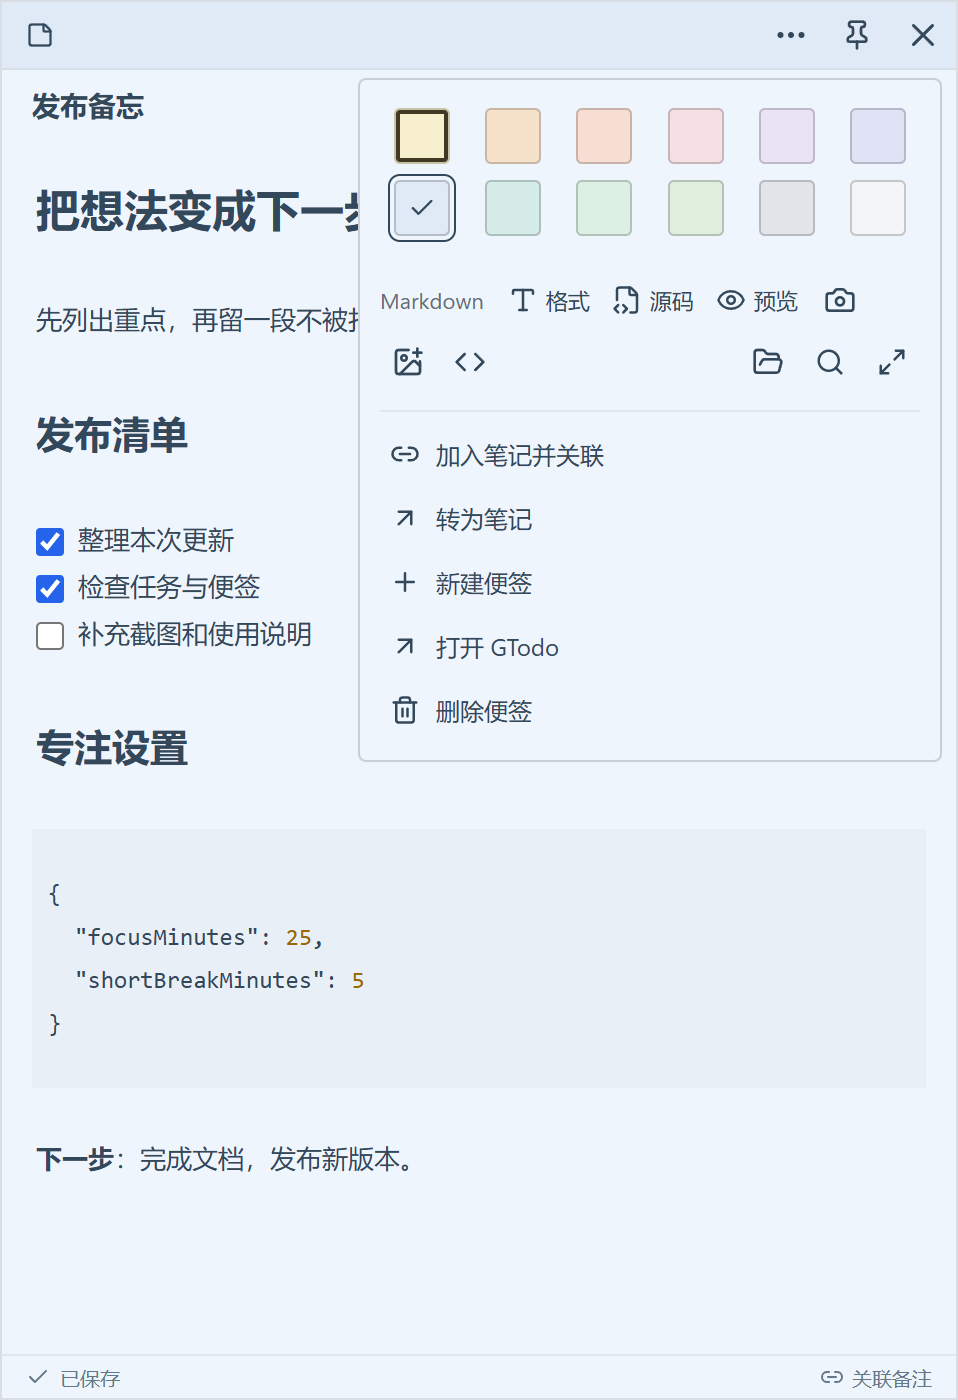
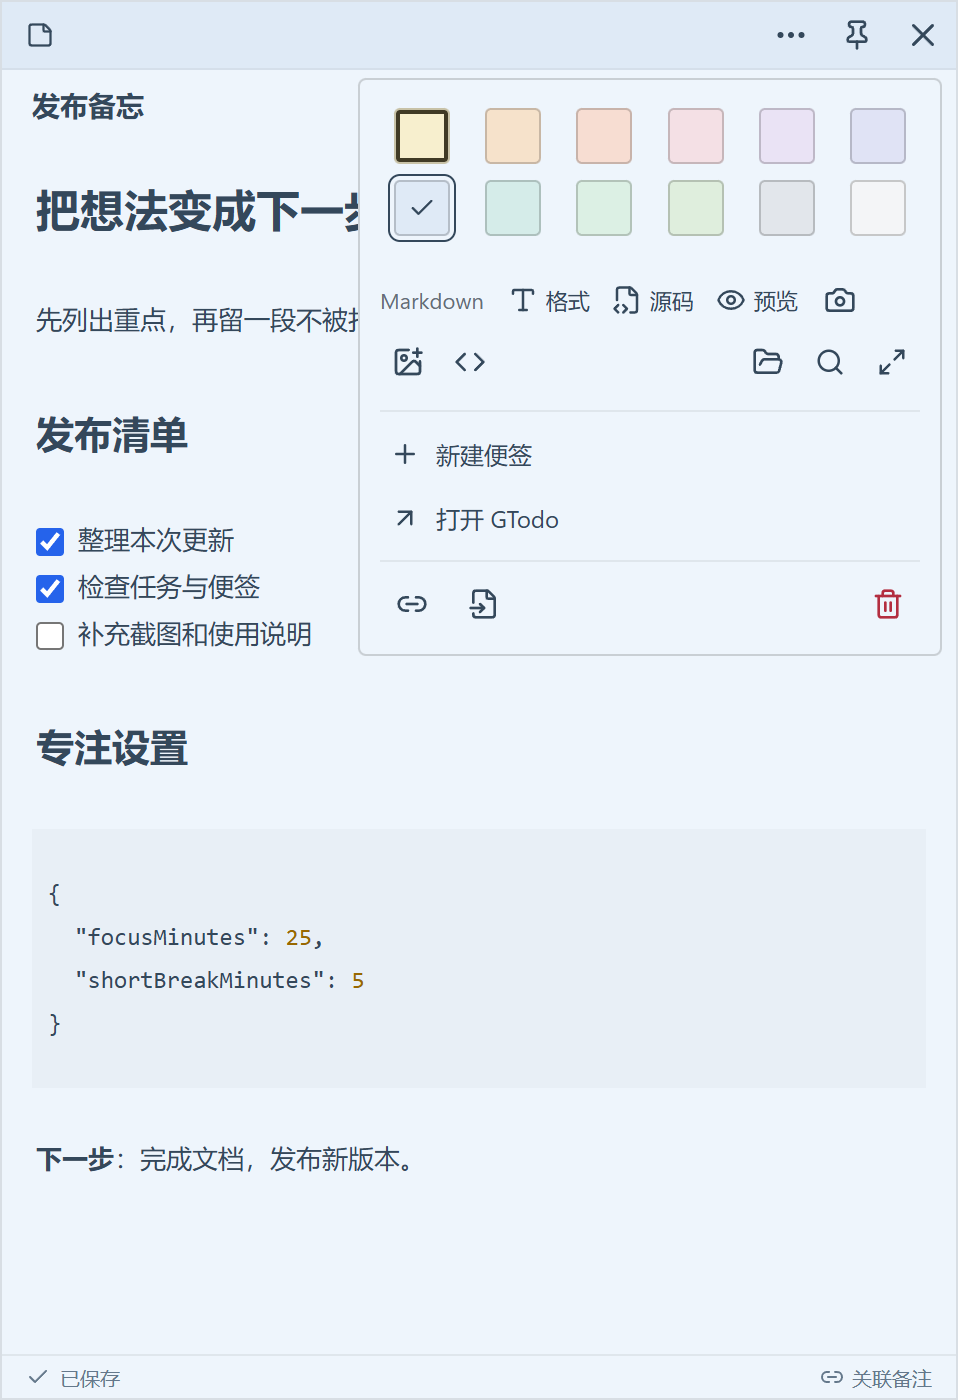
修复选项重叠问题

diff --git a/src/notes/NotesGallery.tsx b/src/notes/NotesGallery.tsx
@@ -1,5 +1,5 @@
 import { useState } from 'react';
-import { Plus, Pin, Trash2, ArrowUpRight, EyeOff, BookOpen } from 'lucide-react';
+import { Plus, Pin, Trash2, ArrowUpRight, EyeOff, BookOpen, Link2, FileInput } from 'lucide-react';
 import type { AppState, DesktopAPI } from '../shared/model';
 import Modal from '../components/Modal';
 import { isDesktopNote, isNotebookNote } from '../shared/notebook';
@@ -19,11 +19,18 @@ export default function NotesGallery({ state, api, close, update, toast }: {
       <div className="notes-gallery-intro"><span>{notes.length} 张便签</span><button className="button primary" disabled={busy} onClick={() => void execute(async () => { await api.createNote(); update(await api.getState()); })}><Plus size={17} />新建便签</button></div>
       {notes.length === 0 ? <div className="notes-empty">暂无便签</div> : <div className="notes-grid">{notes.map(note => {
         const opened = state.noteWindows[note.id]?.open;
+        const title = note.values.title || '未命名便签';
+        const notebookAction = isNotebookNote(note) ? '打开关联笔记' : '加入笔记并关联';
         return <article key={note.id} className={`note-preview sticky-${note.values.color}`}>
           <button className="note-preview-body" aria-label={`打开便签 ${note.values.title || '未命名便签'}`} disabled={busy} onClick={() => void execute(() => api.noteWindow({ type: 'open', id: note.id }))}><h4>{note.values.title.trim() || '未命名便签'}</h4><p>{note.values.content || '无内容'}</p></button>
-          <button className="text-button" disabled={busy} onClick={() => void execute(async () => { if (!isNotebookNote(note)) update(await api.command({ type: 'note.notebook', id: note.id, mode: 'link' })); await api.showNotebook(note.id); close(); })}><BookOpen size={14} />{isNotebookNote(note) ? '打开关联笔记' : '加入笔记并关联'}</button>
-          <button className="text-button" disabled={busy} onClick={() => void execute(async () => { update(await api.command({ type: 'note.notebook', id: note.id, mode: 'convert' })); await api.showNotebook(note.id); close(); })}>转为笔记</button>
-          <footer><span>{state.noteWindows[note.id]?.pinned && <Pin size={12} />}{opened ? '已贴到桌面' : '已收起'}</span><button aria-label={`${opened ? '收起' : '显示'}便签 ${note.values.title || '未命名便签'}`} disabled={busy} onClick={() => void execute(() => api.noteWindow({ type: opened ? 'hide' : 'open', id: note.id }))}>{opened ? <EyeOff size={16} /> : <ArrowUpRight size={17} />}</button><button aria-label={`删除便签 ${note.values.title || '未命名便签'}`} disabled={busy} onClick={() => void execute(async () => { update(await api.deleteNote(note.id)); toast('便签已删除', () => { void execute(async () => { update(await api.command({ type: 'note.desktop', id: note.id })); toast('便签已恢复'); }); }); })}><Trash2 size={15} /></button></footer>
+          <footer><span>{state.noteWindows[note.id]?.pinned && <Pin size={12} />}{opened ? '已贴到桌面' : '已收起'}</span>
+            <div className="note-preview-actions" role="group" aria-label={`便签操作 ${title}`}>
+              <button aria-label={`${notebookAction} ${title}`} title={notebookAction} disabled={busy} onClick={() => void execute(async () => { if (!isNotebookNote(note)) update(await api.command({ type: 'note.notebook', id: note.id, mode: 'link' })); await api.showNotebook(note.id); close(); })}>{isNotebookNote(note) ? <BookOpen size={16} /> : <Link2 size={16} />}</button>
+              <button aria-label={`转为笔记 ${title}`} title="转为笔记" disabled={busy} onClick={() => void execute(async () => { update(await api.command({ type: 'note.notebook', id: note.id, mode: 'convert' })); await api.showNotebook(note.id); close(); })}><FileInput size={16} /></button>
+              <button aria-label={`${opened ? '收起' : '显示'}便签 ${title}`} title={opened ? '收起便签' : '显示便签'} disabled={busy} onClick={() => void execute(() => api.noteWindow({ type: opened ? 'hide' : 'open', id: note.id }))}>{opened ? <EyeOff size={16} /> : <ArrowUpRight size={17} />}</button>
+              <button aria-label={`删除便签 ${title}`} title="删除便签" disabled={busy} onClick={() => void execute(async () => { update(await api.deleteNote(note.id)); toast('便签已删除', () => { void execute(async () => { update(await api.command({ type: 'note.desktop', id: note.id })); toast('便签已恢复'); }); }); })}><Trash2 size={15} /></button>
+            </div>
+          </footer>
         </article>;
       })}</div>}
       <p className="notes-gallery-hint">收起不删除内容。{state.preferences.restoreNotes ? '未收起的便签会在下次启动时恢复。' : '已关闭启动时恢复便签，可在设置中开启。'}</p>

diff --git a/src/notes/StickyNoteWindow.tsx b/src/notes/StickyNoteWindow.tsx
@@ -1,5 +1,5 @@
 import { useEffect, useRef, useState, useSyncExternalStore } from 'react';
-import { ArrowUpRight, Check, Ellipsis, Link2, LoaderCircle, Pin, PinOff, Plus, RotateCcw, StickyNote, Trash2, X } from 'lucide-react';
+import { ArrowUpRight, BookOpen, Check, Ellipsis, FileInput, Link2, LoaderCircle, Pin, PinOff, Plus, RotateCcw, StickyNote, Trash2, X } from 'lucide-react';
 import { noteColors, noteColorNames, type AppState, type DesktopAPI, type Note } from '../shared/model';
 import { flushMainDrafts, NoteDraft } from './draft';
 import DocumentEditor from '../components/DocumentEditor';
@@ -40,6 +40,7 @@ export function NoteEditor({ note, state, api }: { note: Note; state: AppState; 
   const toolsButton = useRef<HTMLButtonElement>(null);
   const pinned = state.noteWindows[note.id]?.pinned ?? false;
   const removed = !isDesktopNote(note);
+  const notebookAction = isNotebookNote(note) ? '打开关联笔记' : '加入笔记并关联';
   const linkedTask = linkedTaskForNote(state.workspace, note);
   useEffect(() => { draft.receive(note.values); }, [draft, note.values]);
   useEffect(() => () => draft.dispose(), [draft]);
@@ -77,11 +78,13 @@ export function NoteEditor({ note, state, api }: { note: Note; state: AppState; 
       <div className="sticky-palette" role="group" aria-label="便签颜色">{noteColors.map(color => <button key={color} aria-label={`${noteColorNames[color]}便签`} title={noteColorNames[color]} aria-pressed={snapshot.values.color === color} className={`sticky-color sticky-${color}`} disabled={removed} onClick={() => draft.change('color', color)}>{snapshot.values.color === color && <Check size={14} />}</button>)}</div>
       <div ref={setToolbarTarget} />
       <div className="sticky-menu-actions">
-        <button disabled={busy || removed} onClick={() => void execute(async () => { if (!isNotebookNote(note)) await api.command({ type: 'note.notebook', id: note.id, mode: 'link' }); await api.showNotebook(note.id); setToolsOpen(false); }, true)}><Link2 size={15} />{isNotebookNote(note) ? '打开关联笔记' : '加入笔记并关联'}</button>
-        <button disabled={busy || removed} onClick={() => void execute(async () => { await api.command({ type: 'note.notebook', id: note.id, mode: 'convert' }); }, true)}><ArrowUpRight size={15} />转为笔记</button>
         <button disabled={busy} onClick={() => void execute(async () => { await api.createNote(); setToolsOpen(false); })}><Plus size={15} />新建便签</button>
         <button onClick={() => void execute(async () => { await api.showMain(); setToolsOpen(false); })}><ArrowUpRight size={15} />打开 GTodo</button>
-        <button disabled={busy || removed} onClick={() => setConfirmDelete(true)}><Trash2 size={15} />删除便签</button>
+      </div>
+      <div className="sticky-note-actions" role="group" aria-label="便签操作">
+        <button aria-label={notebookAction} title={notebookAction} disabled={busy || removed} onClick={() => void execute(async () => { if (!isNotebookNote(note)) await api.command({ type: 'note.notebook', id: note.id, mode: 'link' }); await api.showNotebook(note.id); setToolsOpen(false); }, true)}>{isNotebookNote(note) ? <BookOpen size={16} /> : <Link2 size={16} />}</button>
+        <button aria-label="转为笔记" title="转为笔记" disabled={busy || removed} onClick={() => void execute(async () => { await api.command({ type: 'note.notebook', id: note.id, mode: 'convert' }); }, true)}><FileInput size={16} /></button>
+        <button className="danger-text" aria-label="删除便签" title="删除便签" disabled={busy || removed} onClick={() => setConfirmDelete(true)}><Trash2 size={16} /></button>
       </div>
       {confirmDelete && <div className="sticky-delete-confirm"><span>{isNotebookNote(note) ? '只移除便签入口，关联笔记和正文仍保留。' : linkedTask ? '删除便签并解除关联？任务备注将保留。' : '删除这张便签？'}</span><button disabled={busy} onClick={() => setConfirmDelete(false)}>取消</button><button className="danger-text" disabled={busy} onClick={() => void execute(() => api.deleteNote(note.id))}>删除</button></div>}
     </div>}

diff --git a/src/notes/notes.css b/src/notes/notes.css
@@ -18,6 +18,9 @@
 .sticky-tools-popover .document-toolbar { padding-bottom: 10px; }
 .sticky-menu-actions { display: grid; grid-template-columns: 1fr; gap: 2px; padding-top: 6px; }
 .sticky-menu-actions button { display: flex; align-items: center; gap: 8px; text-align: left; color: inherit; padding: 7px 5px; font-size: 12px; }
+.sticky-note-actions { display: flex; gap: 4px; padding-top: 6px; margin-top: 6px; border-top: 1px solid #00000010; }
+.sticky-note-actions button { flex: 0 0 32px; height: 30px; display: grid; place-items: center; padding: 0; color: inherit; border-radius: 3px; }
+.sticky-note-actions .danger-text { margin-left: auto; color: #a12b37; }
 .sticky-tools-popover .sticky-delete-confirm { padding: 6px 0 0; flex-wrap: wrap; }
 .sticky-window-controls { display: flex; align-self: stretch; -webkit-app-region: no-drag; }
 .sticky-window-controls button { width: 33px; display: grid; place-items: center; color: inherit; }
@@ -54,9 +57,10 @@
 .note-preview-body { display: block; width: 100%; height: 140px; text-align: left; padding: 14px 16px; color: inherit; }
 .note-preview h4 { font-size: 14px; font-weight: 600; white-space: nowrap; text-overflow: ellipsis; overflow: hidden; margin: 0 0 8px; }
 .note-preview p { white-space: pre-wrap; display: -webkit-box; -webkit-line-clamp: 3; -webkit-box-orient: vertical; overflow: hidden; overflow-wrap: anywhere; font-size: 13px; line-height: 1.7; color: var(--paper-muted); }
-.note-preview footer { display: flex; align-items: center; padding: 4px 8px 4px 16px; border-top: 1px solid #00000010; }
-.note-preview footer span { flex: 1; display: flex; gap: 5px; align-items: center; font-size: 10px; color: var(--paper-muted); }
-.note-preview footer button { width: 29px; height: 28px; display: grid; place-items: center; color: inherit; border-radius: 3px; }
+.note-preview footer { display: flex; flex-wrap: wrap; align-items: center; gap: 4px; padding: 4px 6px 4px 10px; border-top: 1px solid #00000010; }
+.note-preview footer > span { flex: 1 1 70px; min-width: 0; display: flex; gap: 5px; align-items: center; font-size: 10px; color: var(--paper-muted); }
+.note-preview-actions { display: flex; flex: 0 0 auto; gap: 2px; margin-left: auto; }
+.note-preview footer button { flex: 0 0 28px; width: 28px; height: 28px; padding: 0; display: grid; place-items: center; color: inherit; border-radius: 3px; }
 .note-preview footer button:hover { background: #00000008; }
 .notes-gallery-hint { color: var(--muted); font-size: 12px; line-height: 1.7; margin-top: 18px; }
 .notes-gallery-error { margin-top: 12px; padding: 10px; background: #fff3f3; color: #a12b37; font-size: 12px; border-radius: 3px; }

diff --git a/tests/native-notebook.ts b/tests/native-notebook.ts
@@ -101,7 +101,7 @@ void (async () => {
   const convertId = await evaluate(main, `window.gtodo.createNote({title:'便签转笔记',content:'保留原文'})`);
   const convertWindow = await until(() => BrowserWindow.getAllWindows().find(window => window.webContents.getURL().includes(`note=${convertId}`)), 'convert sticky');
   await until(() => evaluate(convertWindow, '!!document.querySelector(".cm-content")'), 'convert editor');
-  await click(convertWindow, '[aria-label=便签编辑选项]'); await button(convertWindow, '转为笔记');
+  await click(convertWindow, '[aria-label=便签编辑选项]'); await click(convertWindow, 'button[aria-label=转为笔记]');
   await until(() => evaluate(main, 'document.querySelector("[aria-label=笔记标题]")?.value === "便签转笔记"'), 'convert opens notebook');
   assert.equal((await state(main)).workspace.notes.find((note: any) => note.id === convertId).values.desktop, 'none');
   await until(() => convertWindow.isDestroyed(), 'converted sticky closes');

diff --git a/help.md b/help.md
@@ -87,7 +87,7 @@
 - 支持多张独立便签，拖动顶部标题栏的空白处或便签图标移动位置，拖动边缘调整大小；最小 260 × 240。便签名称在正文上方单独编辑，避免拖动时误触。
 - 标题与正文自动保存，也可以按 `Ctrl + S`。收起或退出时会等待最后的编辑保存完成；保存失败会保留窗口与文字。
 - 标题栏“…”菜单包含颜色、实时/源码编辑、只读预览、截图、插入图片、插入代码和文件位置；默认收起，不占正文空间。支持黄色、橙色、珊瑚色、粉色、紫色、靛蓝、蓝色、青色、薄荷色、绿色、灰色和白色 12 种配色，色板分两行显示，小窗口也能完整选择。右上角图钉可置顶，再点一次取消。
-- 便签右上角的 × 表示“收起”，不会删除内容；可以从便签管理中重新打开。“…”菜单中可新建或删除便签，管理界面删除后可撤销。
+- 便签右上角的 × 表示“收起”，不会删除内容；可以从便签管理中重新打开。“…”菜单中可新建或删除便签，管理界面删除后可撤销。卡片底部及“…”菜单中的加入/打开关联笔记、转为笔记与删除按钮使用同排图标，悬停可查看操作名称。
 - 默认关闭 GTodo 主窗口时，桌面上的便签继续显示；如果选择关闭时退出，则保存内容并关闭所有窗口。通过“…”菜单的“打开 GTodo”或系统托盘图标可重新打开后台主窗口。
 - 完全退出也可使用“设置 → 退出 GTodo”或托盘菜单的“退出 GTodo”。默认下次启动恢复未收起的便签及其位置、大小和置顶状态，可在“设置 → 常规”中关闭恢复。
 - 任务默认不关联便签。在任务详情点击“创建关联便签”，再点击“确认创建”后才建立关联；之后按钮变为“打开关联便签”，重复打开不会创建多张便签。已有独立便签不会自动关联。

diff --git a/agent.md b/agent.md
@@ -55,6 +55,7 @@
 - 排序按清单分别记忆（当前会话），计划页默认按截止日期且控件显示一致；搜索和已完成页始终展开完成记录。窄屏搜索可按 Enter 收起导航查看结果，支持 Ctrl+K / Ctrl+F，Esc 每次只退出当前一层；中文输入法候选阶段不能提交表单或关闭面板。
 - 任务名称、备注和步骤名称使用草稿机制自动保存，支持 Enter 保存名称及 Ctrl+S 保存任务修改；切换任务、清单或关闭详情先等待草稿，失败时保留编辑界面。步骤可直接编辑，删除可撤销。操作提示放入当前模态对话框内以保持可点击，鼠标悬停或键盘聚焦时暂停消失计时。
 - 便签名称在标题栏下方、正文上方编辑，不放回原生拖动区域。颜色、实时/源码编辑、预览、图片和代码等选项折叠到标题栏“…”菜单。
+- 便签卡片和“…”菜单中的加入/打开关联笔记、转为笔记使用图标，与删除操作同排；图标保留 title 和 aria-label，窄窗口可让状态文字换行，不能让操作按钮重叠或挤压点击区域。
 - 便签支持 12 种浅色配色，色板分两行显示。新增颜色时同步更新 `noteColors`、中文名称和便签样式，保留旧颜色 ID，并检查最小窗口下的显示和保存。
 - 便签和番茄钟是独立可移动、缩放、置顶的窗口；便签的 × 表示收起，不是删除。
 - 番茄钟由主进程计时，收起窗口后继续，退出应用或休眠时暂停；专注结束不自动完成任务。

diff --git a/CHANGELOG.md b/CHANGELOG.md
@@ -31,6 +31,7 @@
 
 ### 修复
 
+- 修复便签中加入笔记与转为笔记按钮重叠的问题；两个操作改为图标，与删除按钮同排，保留悬停说明和键盘访问，并适配窄窗口。
 - 修复导入、导出备份和切换数据目录时遗漏最后输入的问题；操作前等待主窗口与便签保存，保存失败则取消操作并保留编辑内容。备份中的记录与图片按同一次读取保存，避免与更新、清理交错。
 - 修复图片尚在导入时切换页面、关闭便签或退出应用导致内容丢失的问题；备注和便签批量插图中途失败时，保留已成功导入的部分。
 - 修复导入有效备份后无法恢复对应损坏图片缓存的问题。
